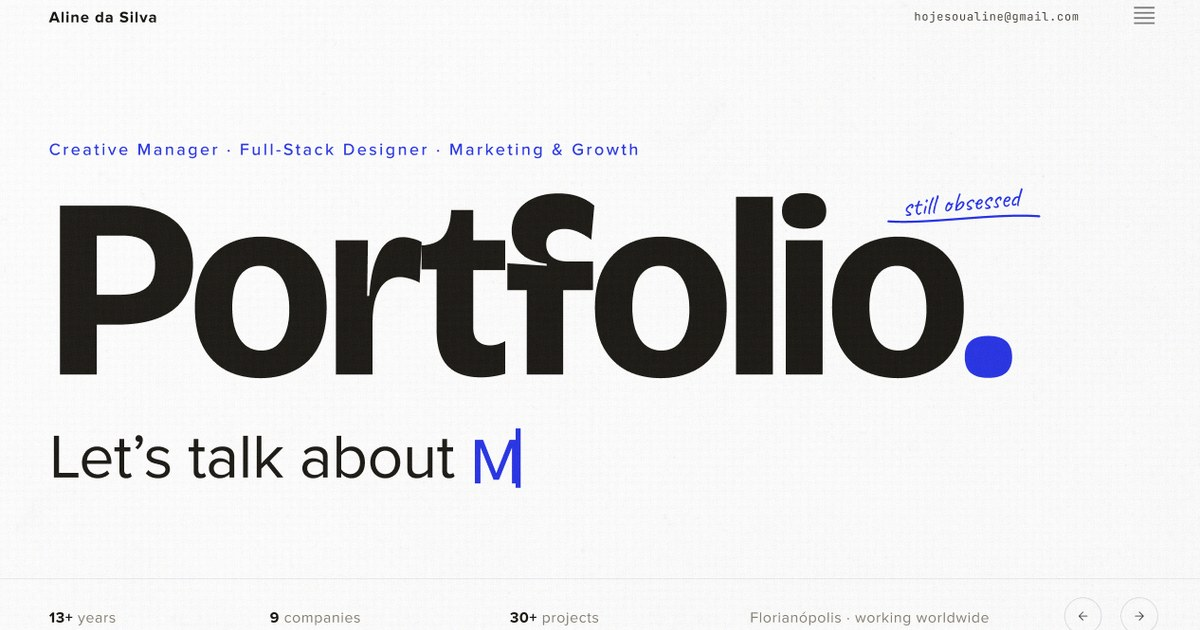
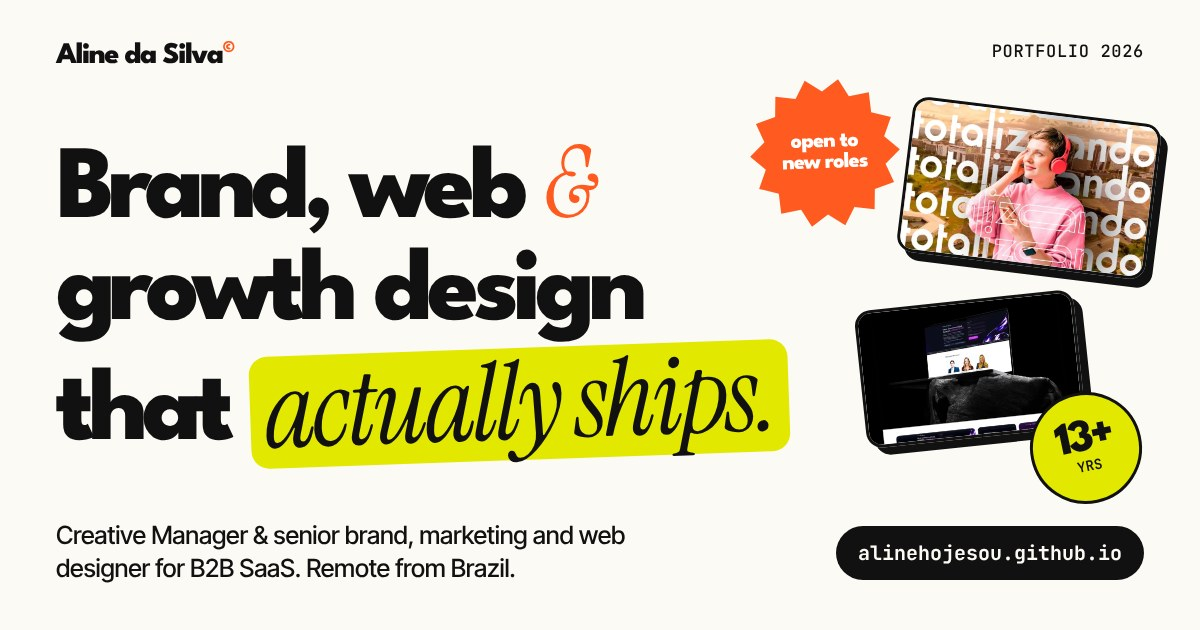
New share images (EN/PT) in the site's visual style
Claude-Session: https://claude.ai/code/session_01FFbiRKUNtrE6e86TwdA7rZ

diff --git a/pt/index.html b/pt/index.html
@@ -15,7 +15,11 @@
 <meta property="og:title" content="Aline da Silva — Creative Manager e Designer Sênior de Marca, Marketing e Web | Remoto, Brasil">
 <meta property="og:description" content="Portfólio de Aline da Silva, Creative Manager e designer sênior de marca, marketing, web e growth com mais de 13 anos de experiência em B2B SaaS. Figma, Webflow, WordPress, HubSpot e IA. Remoto, do Brasil.">
 <meta property="og:url" content="https://alinehojesou.github.io/pt/">
-<meta property="og:image" content="https://alinehojesou.github.io/assets/img/og.jpg">
+<meta property="og:image" content="https://alinehojesou.github.io/assets/img/og-pt.jpg?v=2">
+<meta property="og:image:width" content="1200"><meta property="og:image:height" content="630">
+<meta property="og:image:alt" content="Aline da Silva — Creative Manager e Designer Sênior de Marca, Marketing e Web | Remoto, Brasil">
+<meta property="og:site_name" content="Aline da Silva">
+<meta name="twitter:image" content="https://alinehojesou.github.io/assets/img/og-pt.jpg?v=2">
 <meta property="og:locale" content="pt_BR">
 <meta name="twitter:card" content="summary_large_image">
 <meta name="theme-color" content="#fbfaf4">

diff --git a/index.html b/index.html
@@ -15,7 +15,11 @@
 <meta property="og:title" content="Aline da Silva — Creative Manager &amp; Senior Brand, Marketing &amp; Web Designer | Remote, Brazil">
 <meta property="og:description" content="Portfolio of Aline da Silva, Creative Manager and senior brand, marketing, web and growth designer with 13+ years in B2B SaaS. Figma, Webflow, WordPress, HubSpot, AI workflows. Remote from Brazil.">
 <meta property="og:url" content="https://alinehojesou.github.io/">
-<meta property="og:image" content="https://alinehojesou.github.io/assets/img/og.jpg">
+<meta property="og:image" content="https://alinehojesou.github.io/assets/img/og.jpg?v=2">
+<meta property="og:image:width" content="1200"><meta property="og:image:height" content="630">
+<meta property="og:image:alt" content="Aline da Silva — Creative Manager &amp; Senior Brand, Marketing &amp; Web Designer | Remote, Brazil">
+<meta property="og:site_name" content="Aline da Silva">
+<meta name="twitter:image" content="https://alinehojesou.github.io/assets/img/og.jpg?v=2">
 <meta property="og:locale" content="en_US">
 <meta name="twitter:card" content="summary_large_image">
 <meta name="theme-color" content="#fbfaf4">
